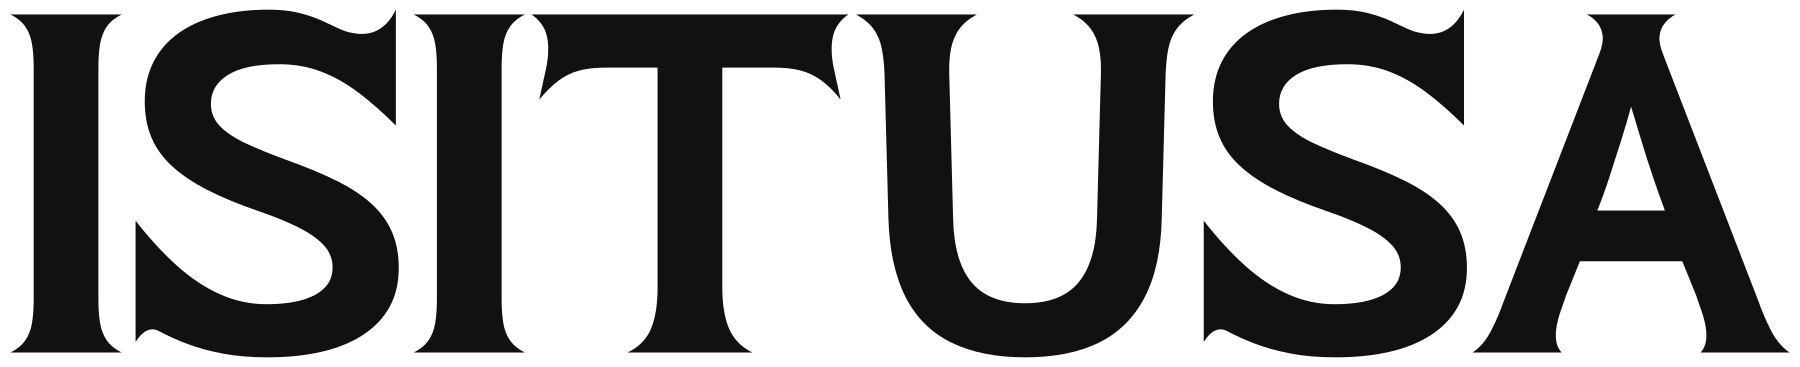
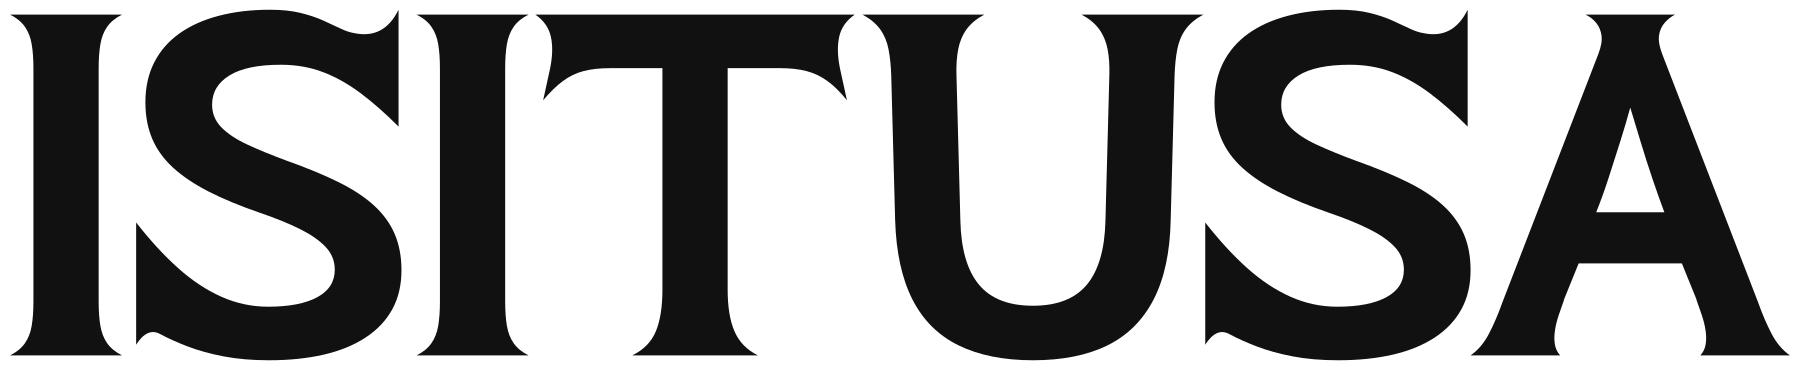
Tighten ISITUSA wordmark kerning consistently across font and assets

diff --git a/app/brand/page.tsx b/app/brand/page.tsx
@@ -4,8 +4,8 @@ import { ArrowDownToLine } from "lucide-react";
 export const metadata: Metadata = { title: "Brand kit | ISITUSA", description: "Official ISITUSA artwork for articles, community materials, and project updates.", alternates: { canonical: "/brand" } };
 const assets = [
   { file: "/brand/v3/isitusa-symbol.svg", title: "The symbol", description: "For avatars, icons, and compact spaces.", width: 840, height: 840 },
-  { file: "/brand/v10/symbol-name.svg?v=1.001", title: "Symbol and name", description: "Our emblem paired with the uppercase ISITUSA name.", width: 840, height: 1080 },
-  { file: "/brand/v10/wordmark-green.svg?v=1.001", title: "The wordmark", description: "Custom outlined lettering for headers and horizontal spaces.", width: 3724, height: 760 },
+  { file: "/brand/v10/symbol-name.svg?v=1.005", title: "Symbol and name", description: "Our emblem paired with the uppercase ISITUSA name.", width: 840, height: 1080 },
+  { file: "/brand/v10/wordmark-green.svg?v=1.005", title: "The wordmark", description: "Custom outlined lettering for headers and horizontal spaces.", width: 3696, height: 760 },
 ];
 export default function BrandPage() {
   return <main id="main-content" className="brand-kit">
@@ -21,10 +21,10 @@ export default function BrandPage() {
       <h2 id="full-wordmark-heading">Our full name, in our own lettering.</h2><p>The same botanical lettering as our wordmark and public headings, supplied as scalable outlines.</p>
       <a className="text-link" href="/brand/v10/full-name.svg?v=1.004" download>Download SVG</a>
     </section>
-    <section className="brand-kit-card"><h2>One family. A living identity.</h2><p>Invasive Serif pairs broad, flowing curves with crisp, flared ends. Its sculptural capitals share the same outlines in our logo and headings. The complete Latin display system includes capitals, lowercase, numbers, accents and punctuation, with individually refined spacing. Body copy stays in a clear sans-serif.</p><div className="brand-kit-actions"><a className="text-link" href="/fonts/invasive-serif/InvasiveSerif-Bold.ttf?v=1.004" download>Download Invasive Serif</a><a className="text-link" href="/fonts/invasive-serif/README.txt">Font usage notes</a></div></section>
+    <section className="brand-kit-card"><h2>One family. A living identity.</h2><p>Invasive Serif pairs broad, flowing curves with crisp, flared ends. Its sculptural capitals share the same outlines in our logo and headings. The complete Latin display system includes capitals, lowercase, numbers, accents and punctuation, with individually refined spacing. Body copy stays in a clear sans-serif.</p><div className="brand-kit-actions"><a className="text-link" href="/fonts/invasive-serif/InvasiveSerif-Bold.ttf?v=1.005" download>Download Invasive Serif</a><a className="text-link" href="/fonts/invasive-serif/README.txt">Font usage notes</a></div></section>
     <h2>Keep it recognizable.</h2>
     <p className="brand-kit-note">Write our name as <strong>ISITUSA</strong> and our website as <strong>isitusa.com</strong>. Keep the artwork in its original proportions, with clear space around it. Use green on light backgrounds and white on dark backgrounds.</p>
     <p className="brand-kit-note">Use the logo to identify the project accurately. Its use should not suggest an endorsement, partnership, government affiliation, or nonprofit status.</p>
-    <div className="brand-kit-actions"><a className="text-link" href="/brand/v10/wordmark-white.svg?v=1.001" download>White wordmark</a><a className="text-link" href="/brand/v10/wordmark-black.svg?v=1.001" download>Black wordmark</a></div>
+    <div className="brand-kit-actions"><a className="text-link" href="/brand/v10/wordmark-white.svg?v=1.005" download>White wordmark</a><a className="text-link" href="/brand/v10/wordmark-black.svg?v=1.005" download>Black wordmark</a></div>
   </main>;
 }

diff --git a/src/components/site-footer.tsx b/src/components/site-footer.tsx
@@ -11,7 +11,7 @@ export function SiteFooter() {
   return (
     <footer className="site-footer">
       <div className="footer-main">
-        <div className="footer-introduction"><Link href="/" className="footer-brand" aria-label="ISITUSA home"><Image className="brand-art" src="/brand/v10/symbol-name.svg?v=1.001" alt="ISITUSA" width={90} height={116} unoptimized /></Link><p>Accessible invasive species research to protect the places you love</p></div>
+        <div className="footer-introduction"><Link href="/" className="footer-brand" aria-label="ISITUSA home"><Image className="brand-art" src="/brand/v10/symbol-name.svg?v=1.005" alt="ISITUSA" width={90} height={116} unoptimized /></Link><p>Accessible invasive species research to protect the places you love</p></div>
         <nav aria-label="Explore"><h2>Explore</h2><Link href="/">Map</Link><Link href="/species">Species</Link><Link href="/research">Research</Link><Link href="/about">About ISITUSA</Link></nav>
         <nav aria-label="Get involved"><h2>Get involved</h2><Link href="/report">Document a sighting <ArrowUpRight size={14} aria-hidden="true" /></Link><Link href="/join">Email updates <ArrowUpRight size={14} aria-hidden="true" /></Link><Link href="/support">Support the work <ArrowUpRight size={14} aria-hidden="true" /></Link></nav>
         <nav aria-label="Site information"><h2>Good to know</h2><Link href="/brand">Brand kit</Link><Link href="/privacy">Privacy</Link><button type="button" className="text-left min-h-11" onClick={() => window.dispatchEvent(new Event(ANALYTICS_SETTINGS_EVENT))}>Privacy choices</button><Link href="/terms">Support terms</Link><Link href="/preferences">Email preferences</Link><Link href="/credits">Credits</Link></nav>

diff --git a/app/globals.css b/app/globals.css
@@ -1277,7 +1277,7 @@ html { scroll-padding-top:calc(var(--site-header-height) + var(--site-header-top
 .profile-section-nav{display:flex;flex-wrap:wrap;gap:8px 28px;margin-top:24px;font-size:14px}.profile-section-nav a{display:inline-flex;align-items:center;min-height:44px;text-decoration:underline;text-underline-offset:4px}.profile-report-callout{display:flex;align-items:center;justify-content:space-between;gap:24px;padding:24px 0;border-block:1px solid var(--border)}.profile-report-callout h3{font-size:22px;margin-bottom:8px}.profile-report-callout p{font-size:15px;color:var(--muted)}.profile-correction form{max-width:780px;padding-top:20px}.profile-correction h3{font-size:23px;line-height:1.4}.profile-correction legend{padding-bottom:12px}@media(max-width:640px){.profile-report-callout{align-items:flex-start;flex-direction:column}.profile-section-nav{gap:4px 20px}}
 
 /* One editorial voice; data, controls and body copy retain the UI sans. */
-@font-face{font-family:"Invasive Serif";src:url("/fonts/invasive-serif/invasive-serif.woff2?v=1.004") format("woff2");font-style:normal;font-weight:700;font-display:swap}
+@font-face{font-family:"Invasive Serif";src:url("/fonts/invasive-serif/invasive-serif.woff2?v=1.005") format("woff2");font-style:normal;font-weight:700;font-display:swap}
 h1,h2,h3,
 :is(.reading-page,.about-page,.brand-kit) h1,
 :is(.reading-page,.about-page,.brand-kit) h2,

diff --git a/app/about/page.tsx b/app/about/page.tsx
@@ -22,7 +22,7 @@ export default function AboutPage() {
           <h1>Accessible invasive species research to protect the places you love</h1>
           <p className="about-lead">Our mission is to make invasive species research accessible, understandable, and useful to everyone. We connect people with accurate information about the species near them, helping communities take informed action to protect native biodiversity and the places they love.</p>
           <div className="about-mission-identity">
-            <Image className="brand-art" src="/brand/v10/symbol-name.svg?v=1.001" alt="ISITUSA" width={90} height={116} unoptimized />
+            <Image className="brand-art" src="/brand/v10/symbol-name.svg?v=1.005" alt="ISITUSA" width={90} height={116} unoptimized />
             <p className="about-mission-copy"><strong className="brand-wordmark">ISITUSA</strong> is an independent initiative established in the United States of America by environmentalists.</p>
           </div>
           <Link href="/" className="primary-button inline-flex items-center gap-2">Explore your county <ArrowRight size={18} aria-hidden="true" /></Link>

diff --git a/app/layout.tsx b/app/layout.tsx
@@ -48,7 +48,7 @@ export default function RootLayout({
 }>) {
   return (
     <html lang="en" suppressHydrationWarning>
-      <head><link rel="preload" href="/fonts/invasive-serif/invasive-serif.woff2?v=1.004" as="font" type="font/woff2" crossOrigin="anonymous" /></head>
+      <head><link rel="preload" href="/fonts/invasive-serif/invasive-serif.woff2?v=1.005" as="font" type="font/woff2" crossOrigin="anonymous" /></head>
       <body className="font-[family-name:var(--font-body)] antialiased">
         <Providers>
           <div className="app-frame">

diff --git a/scripts/build-invasive-serif.py b/scripts/build-invasive-serif.py
@@ -23,13 +23,14 @@ if len(sys.argv) > 1:
     shutil.copyfile(sys.argv[1], MASTER)
 font = TTFont(MASTER, recalcTimestamp=False)
 
-def balance_tat(candidate):
-    # Preserve the approved ta gap and bring the following t 30/1000 em closer
-    # than revision 1.002. Glyph outlines and unrelated pairs stay untouched.
+def refine_spacing(candidate):
+    # Preserve approved States spacing and unify uppercase US/SA spacing.
+    # Logo artwork uses the same native pairs; glyph drawings stay untouched.
     cmap = candidate.getBestCmap()
     table = candidate['GPOS'].table.LookupList.Lookup[0].SubTable[0]
     assert table.Format == 1 and table.ValueFormat1 == 4 and table.ValueFormat2 == 0
-    for first, second, before, after in [('t', 'a', -9, 1), ('a', 't', None, -40)]:
+    for first, second, before, after in [('t', 'a', -9, 1), ('a', 't', None, -40),
+                                         ('U', 'S', -8, -40), ('S', 'A', -14, -36)]:
         pairset = table.PairSet[table.Coverage.glyphs.index(cmap[ord(first)])]
         name = cmap[ord(second)]
         matches = [pair for pair in pairset.PairValueRecord if pair.SecondGlyph == name]
@@ -47,7 +48,7 @@ def balance_tat(candidate):
         pairset.PairValueRecord.sort(key=lambda pair: candidate.getGlyphID(pair.SecondGlyph))
         pairset.PairValueCount = len(pairset.PairValueRecord)
 
-balance_tat(font)
+refine_spacing(font)
 # Translate the complete top serif down 20 units, shortening only the straight
 # ascender. Preserve its curves, width, shoulder, sidebearings and all kerning.
 h_name = font.getBestCmap()[ord('h')]
@@ -60,9 +61,9 @@ for point in range(31, 39):
 h_glyph.recalcBounds(font['glyf'])
 assert h_glyph.yMax == font['glyf'][font.getBestCmap()[ord('T')]].yMax == 700
 names = {0: 'Copyright 2026 ISITUSA.', 1: 'Invasive Serif', 2: 'Bold',
-         3: 'ISITUSA:InvasiveSerif-Bold:1.004', 4: 'Invasive Serif Bold',
-         5: 'Version 1.004', 6: 'InvasiveSerif-Bold', 16: 'Invasive Serif',
-         17: 'Bold', 10: 'ISITUSA botanical display lettering. Grove XXIII with approved h ascender and ta/at spacing refinements.'}
+         3: 'ISITUSA:InvasiveSerif-Bold:1.005', 4: 'Invasive Serif Bold',
+         5: 'Version 1.005', 6: 'InvasiveSerif-Bold', 16: 'Invasive Serif',
+         17: 'Bold', 10: 'ISITUSA botanical display lettering. Grove XXIII with approved h ascender and ta/at and uppercase US/SA spacing refinements.'}
 for record in font['name'].names:
     if record.nameID in names:
         record.string = names[record.nameID].encode(record.getEncoding())
@@ -71,7 +72,7 @@ for key, value in names.items():
 font['OS/2'].usWeightClass = 700
 font['OS/2'].fsSelection = (font['OS/2'].fsSelection & ~65) | 32
 font['head'].macStyle = (font['head'].macStyle & ~2) | 1
-font['head'].fontRevision = 1.004
+font['head'].fontRevision = 1.005
 ttf = FONTDIR / 'InvasiveSerif-Bold.ttf'
 font.save(ttf)
 font.flavor = 'woff2'
@@ -90,14 +91,11 @@ def shape(path, text):
 
 gs = font.getGlyphSet()
 order = font.getGlyphOrder()
-def outline(text, logo=False):
+def outline(text):
     x = 0
     paths = []
     bounds = []
     for index, (gid, advance, dx, dy) in enumerate(shape(ttf, text)):
-        # These optical logo adjustments do not affect running-text GPOS.
-        if logo and index in (5, 6):
-            x -= {5: 16, 6: 10}[index]
         name = order[gid]
         pen = SVGPathPen(gs)
         gs[name].draw(pen)
@@ -111,7 +109,7 @@ def outline(text, logo=False):
     return ''.join(paths), (min(b[0] for b in bounds), min(b[1] for b in bounds),
                             max(b[2] for b in bounds), max(b[3] for b in bounds))
 
-letters, (left, bottom, right, top) = outline('ISITUSA', logo=True)
+letters, (left, bottom, right, top) = outline('ISITUSA')
 width, height = right-left+40, top-bottom+40
 for name, color in {'green':'#00583B', 'white':'#FFFFFF', 'black':'#111111'}.items():
     (OUT / f'wordmark-{name}.svg').write_text(
@@ -130,7 +128,7 @@ body = re.search(r'<path.*</svg>', emblem, re.S).group(0).removesuffix('</svg>')
 scale = 800/width
 (OUT / 'symbol-name.svg').write_text(f'<svg xmlns="http://www.w3.org/2000/svg" viewBox="0 0 840 1080" fill="#00583B"><title>ISITUSA</title><g fill-rule="evenodd" transform="translate(-110 -90)">{body}</g><g transform="translate({20+(20-left)*scale} {884+(20+top)*scale}) scale({scale} {-scale})">{letters}</g></svg>', encoding='utf8')
 shutil.copyfile(ROOT / 'public/brand/v9/site.webmanifest', OUT / 'site.webmanifest')
-manifest = {'version':10, 'fontRevision':'1.004', 'logoOpticalAdjustments':{'US':-16,'SA':-10}, 'kerningAdjustments':{'ta':{'before':-9,'after':1},'at':{'before':0,'after':-40}}, 'family':'Invasive Serif', 'weight':700,
+manifest = {'version':10, 'fontRevision':'1.005', 'logoOpticalAdjustments':{}, 'logoSpacing':'Native font kerning; no duplicate optical offsets', 'kerningAdjustments':{'ta':{'before':-9,'after':1},'at':{'before':0,'after':-40},'US':{'before':-8,'after':-40},'SA':{'before':-14,'after':-36}}, 'family':'Invasive Serif', 'weight':700,
             'wordmarkWidth':width, 'wordmarkHeight':height,
             'fullNameWidth':fullwidth, 'fullNameHeight':fullheight,
             'masterSha256':hashlib.sha256(MASTER.read_bytes()).hexdigest(),
@@ -140,7 +138,7 @@ manifest = {'version':10, 'fontRevision':'1.004', 'logoOpticalAdjustments':{'US'
 (OUT / 'manifest.json').write_text(json.dumps(manifest, indent=2)+'\n', newline='\n')
 original = TTFont(MASTER)
 expected_spacing = TTFont(MASTER)
-balance_tat(expected_spacing)
+refine_spacing(expected_spacing)
 packaged = TTFont(ttf)
 web = TTFont(FONTDIR / 'invasive-serif.woff2')
 for candidate in [packaged, web]:
@@ -157,11 +155,12 @@ for candidate in [packaged, web]:
     assert candidate['GPOS'].compile(candidate) == expected_spacing['GPOS'].compile(expected_spacing)
     for table in ['hhea', 'prep']:
         assert candidate[table].compile(candidate) == original[table].compile(original)
-samples = ['ISITUSA', 'Your', 'October', 'Yule', 'Yvette', 'Yggdrasil',
+samples = ['Your', 'October', 'Yule', 'Yvette', 'Yggdrasil',
            'Accessible invasive species research to protect the places you love.']
 for text in samples:
     assert shape(MASTER, text) == shape(ttf, text)
+assert sum(p[1] for p in shape(MASTER, 'ISITUSA')) - sum(p[1] for p in shape(ttf, 'ISITUSA')) == 54
 for text in ['States', 'state', 'status', 'United States of America']:
     before, after = shape(MASTER, text), shape(ttf, text)
     assert sum(p[1] for p in before) - sum(p[1] for p in after) == 30, text
-print(json.dumps({**manifest, 'onlyHAscenderChanged':True, 'onlyTaAtKerningChanged':True, 'otherOutlinesMetricsKerningCoveragePreserved':True}))
+print(json.dumps({**manifest, 'onlyHAscenderChanged':True, 'onlyTaAtUsSaKerningChanged':True, 'otherOutlinesMetricsKerningCoveragePreserved':True}))

diff --git a/ops/national-research/ui-work/usa-kerning-20261016/verification.md b/ops/national-research/ui-work/usa-kerning-20261016/verification.md
@@ -1,0 +1,12 @@
+# Invasive Serif 1.005 - uppercase US and SA spacing
+
+Authorized scope: tighter spacing in ISITUSA across site, font and brand assets, followed by production publication.
+
+- US kerning changes from -8 to -40 units; SA changes from -14 to -36.
+- Removed separate logo offsets (-16 US / -10 SA); both artwork and text now use native font kerning.
+- Relative to previous logo, U-S gap is 16 units tighter and S-A is 12 units tighter; wordmark width 3724 -> 3696.
+- Compared all 2704 Latin letter pairs against 1.004: only US and SA changed. All outlines, advance metrics and States shaping unchanged.
+- Rebuilt three wordmark colors, symbol-name SVG/PNG, and the legacy email-image compatibility PNG.
+- Font/preload/download and affected logo URL revisions updated to 1.005; full-name artwork remains byte-identical.
+- Large and small rendered comparison reviewed. Application lint: 176 files, zero warnings/errors. Typecheck, publication checks and data integrity passed.
+- Hosted and live verification pending at commit time.
